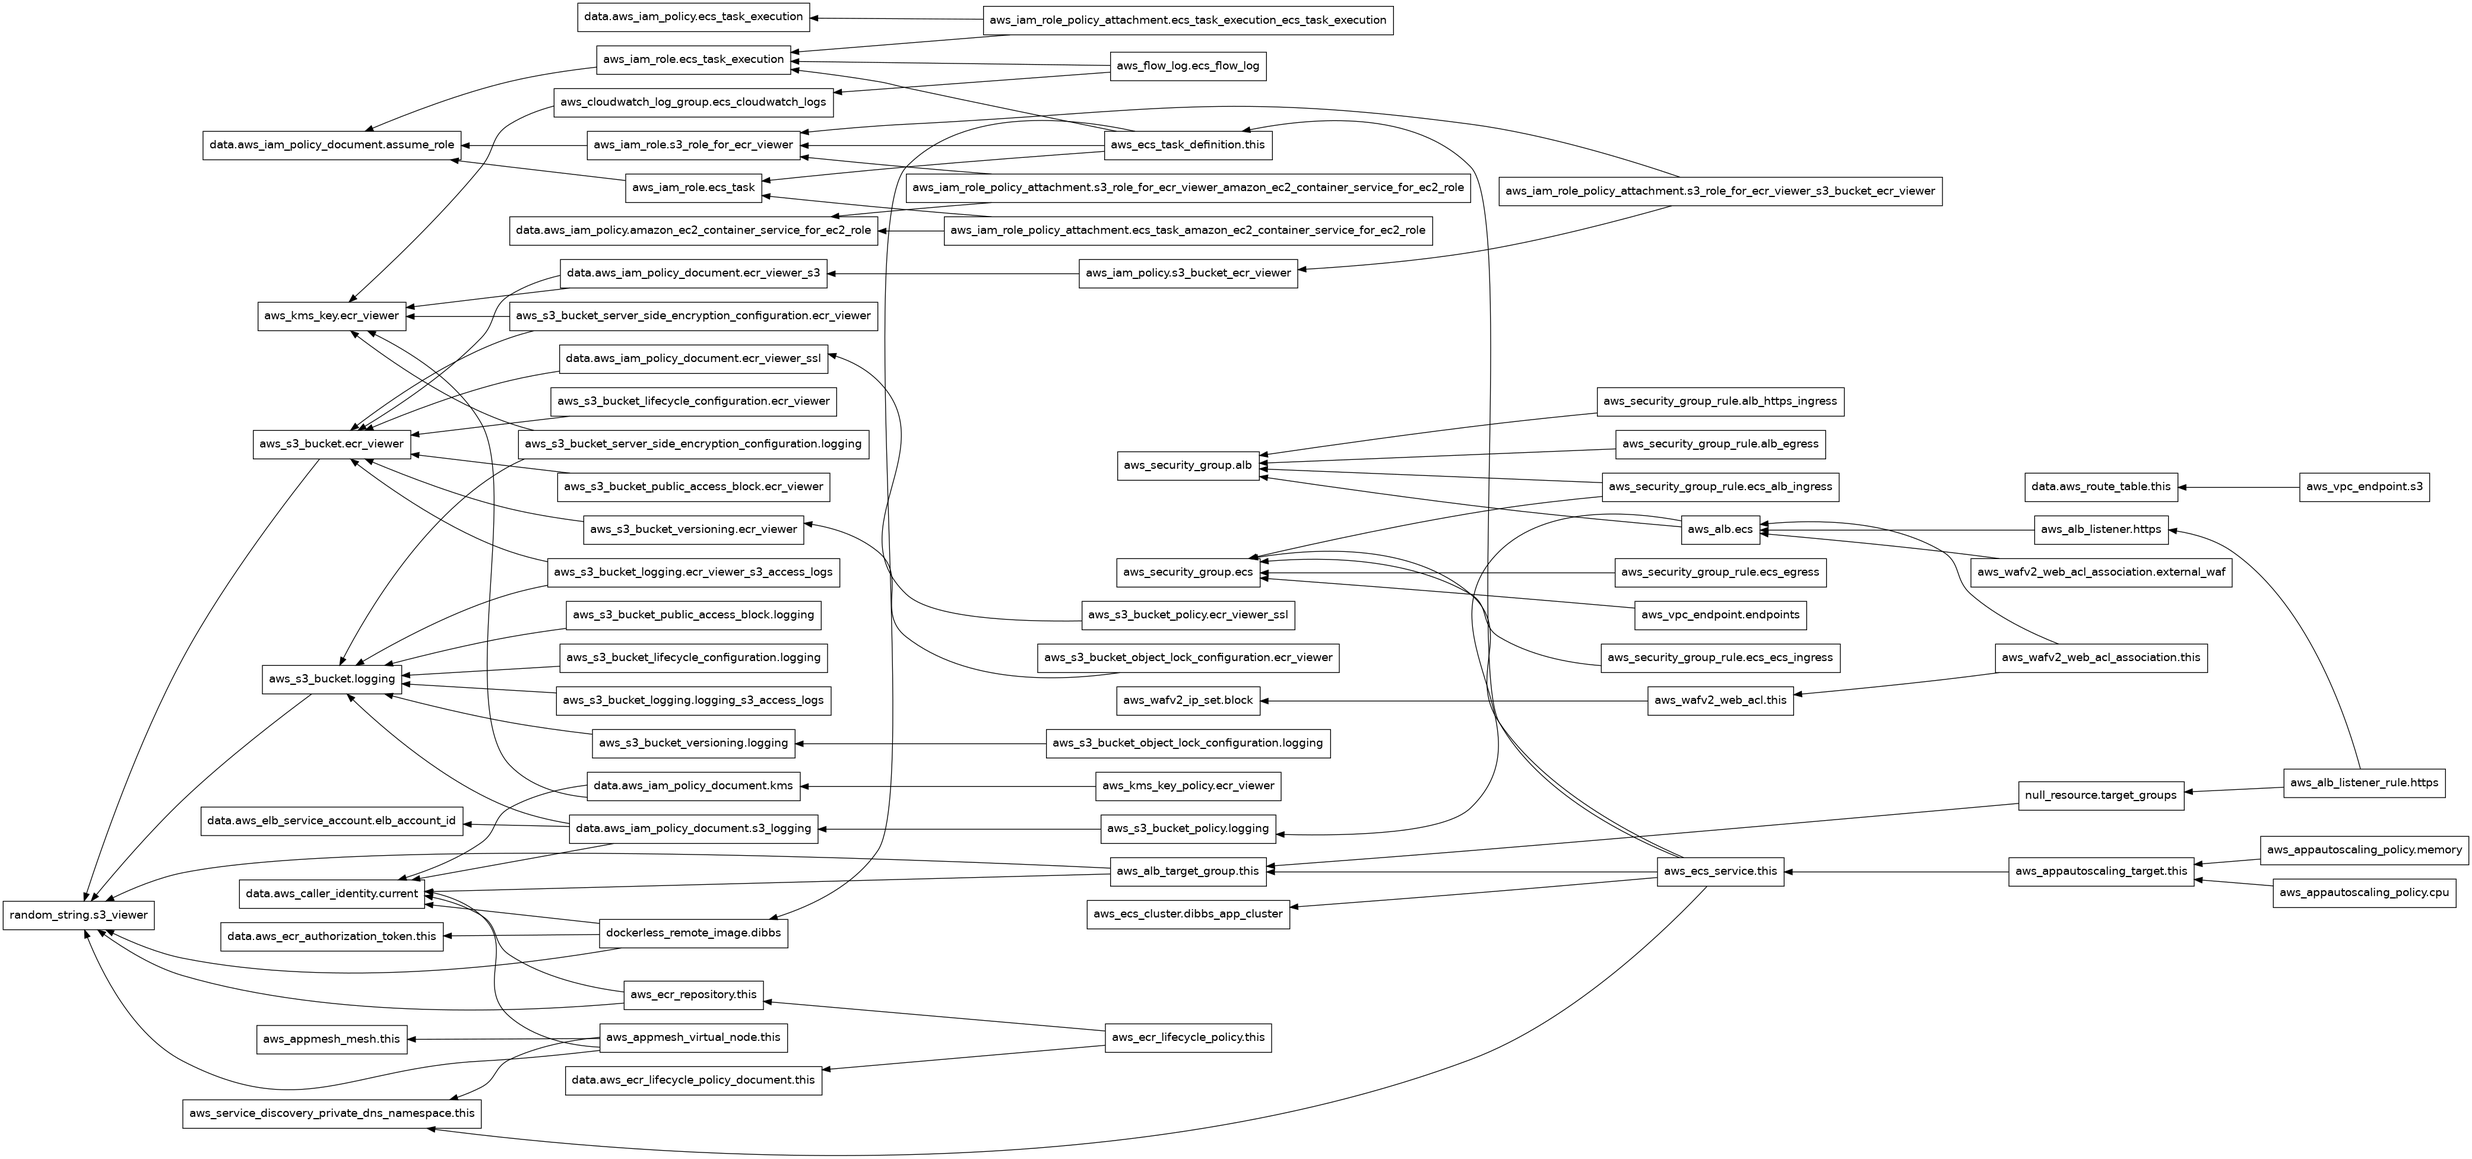
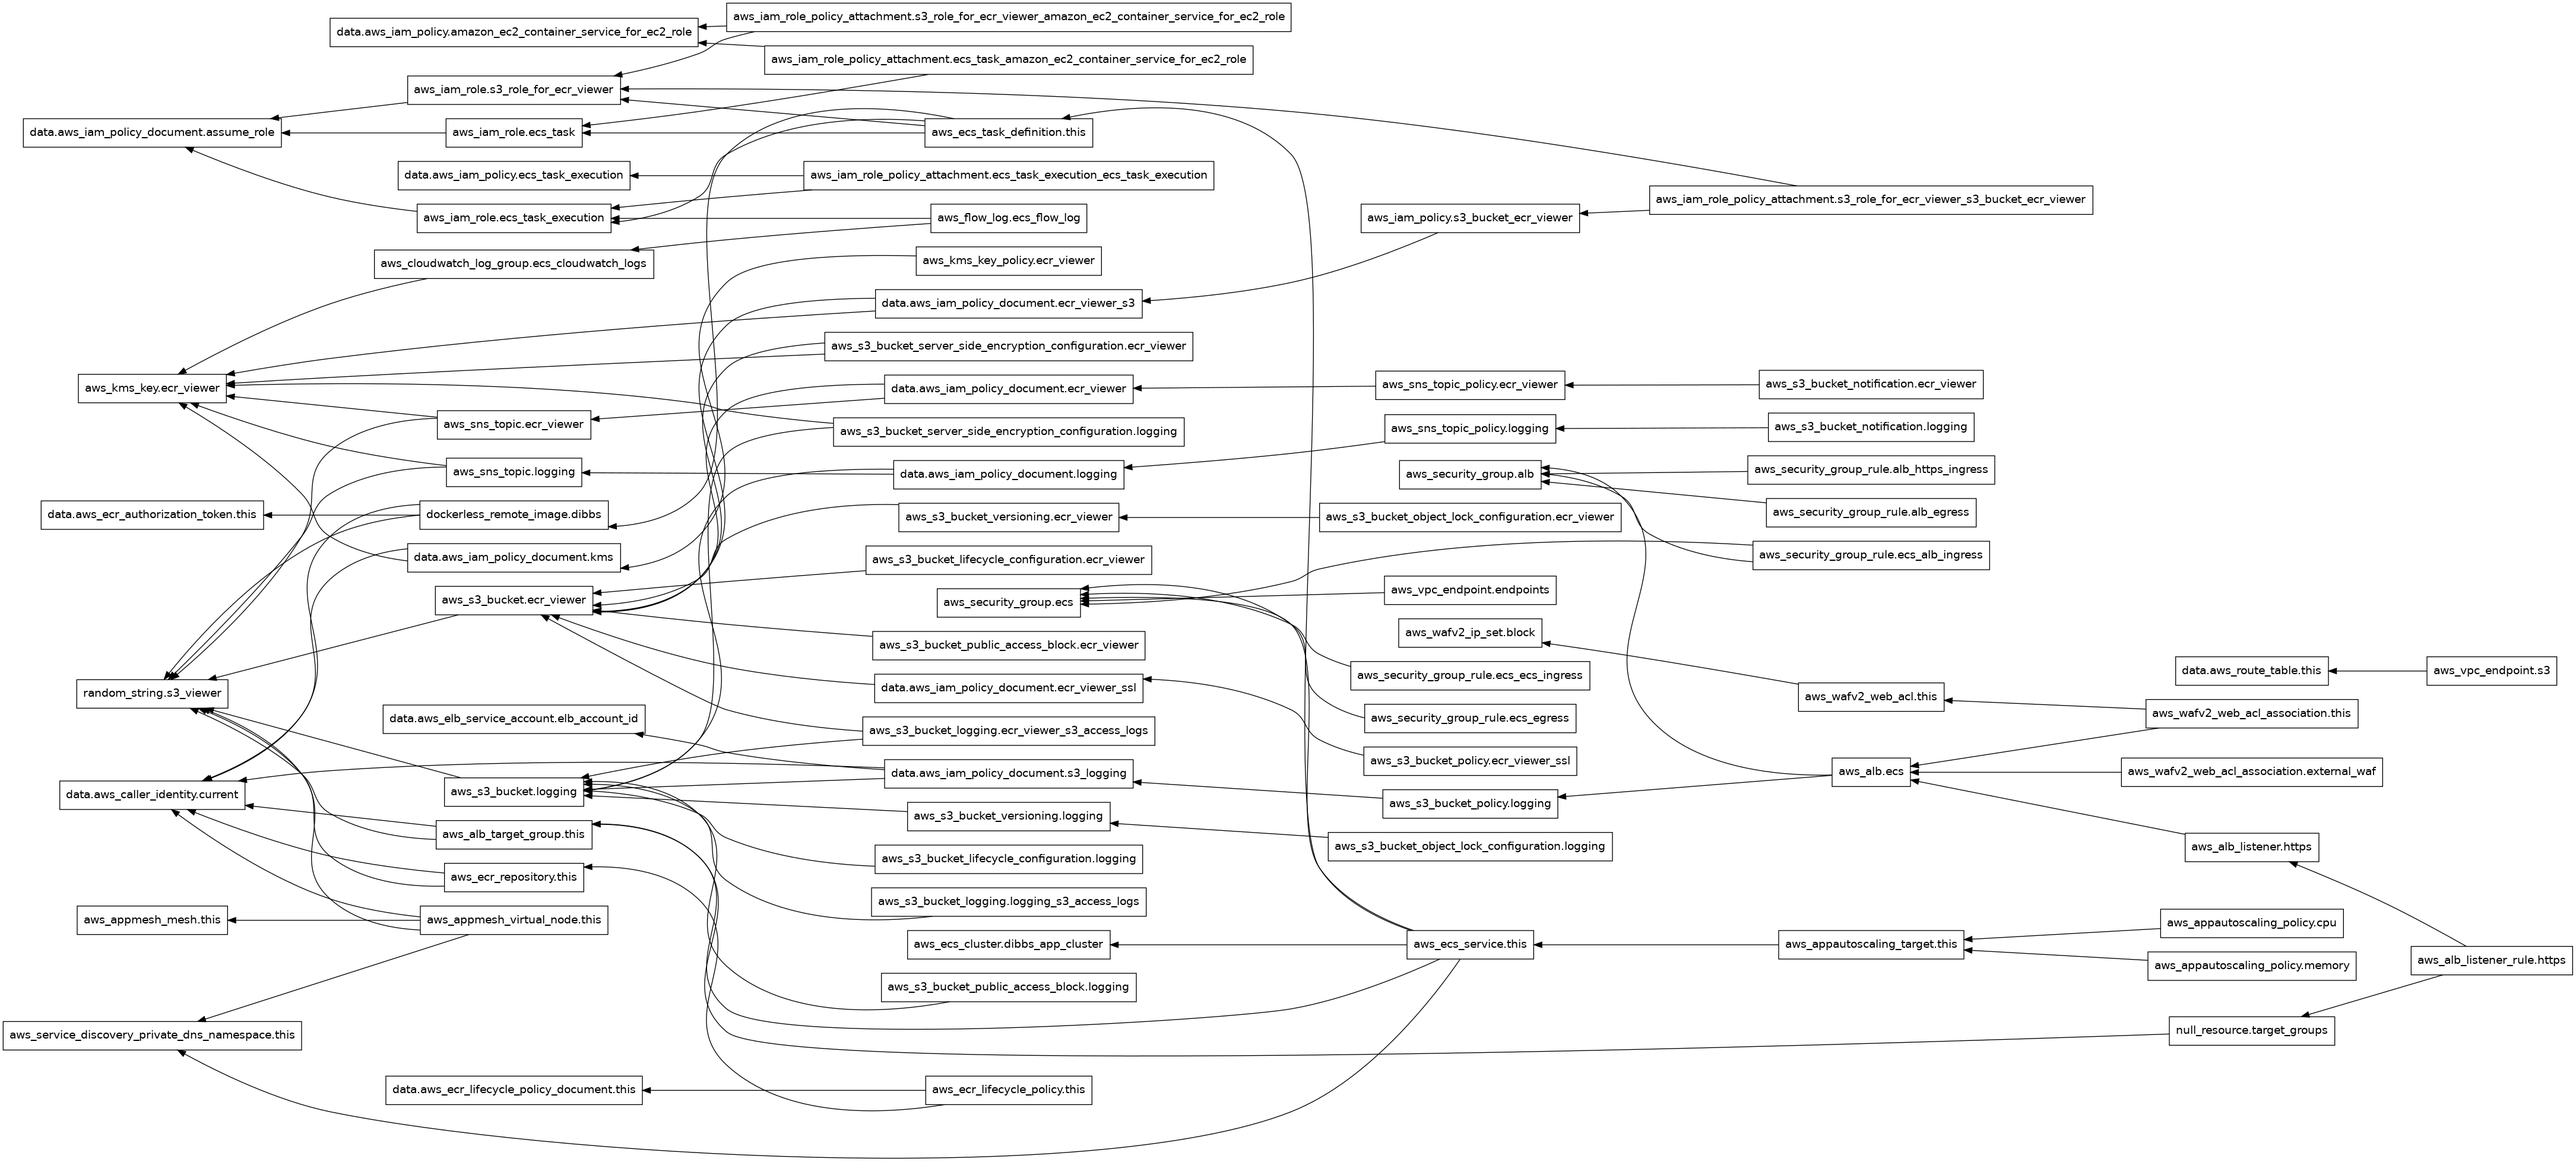
feat: add SNS topics and bucket notifications for ecr viewer and logging buckets

diff --git a/README.md b/README.md
@@ -156,6 +156,8 @@ No modules.
 | [aws_s3_bucket_lifecycle_configuration.logging](https://registry.terraform.io/providers/hashicorp/aws/latest/docs/resources/s3_bucket_lifecycle_configuration) | resource |
 | [aws_s3_bucket_logging.ecr_viewer_s3_access_logs](https://registry.terraform.io/providers/hashicorp/aws/latest/docs/resources/s3_bucket_logging) | resource |
 | [aws_s3_bucket_logging.logging_s3_access_logs](https://registry.terraform.io/providers/hashicorp/aws/latest/docs/resources/s3_bucket_logging) | resource |
+| [aws_s3_bucket_notification.ecr_viewer](https://registry.terraform.io/providers/hashicorp/aws/latest/docs/resources/s3_bucket_notification) | resource |
+| [aws_s3_bucket_notification.logging](https://registry.terraform.io/providers/hashicorp/aws/latest/docs/resources/s3_bucket_notification) | resource |
 | [aws_s3_bucket_object_lock_configuration.ecr_viewer](https://registry.terraform.io/providers/hashicorp/aws/latest/docs/resources/s3_bucket_object_lock_configuration) | resource |
 | [aws_s3_bucket_object_lock_configuration.logging](https://registry.terraform.io/providers/hashicorp/aws/latest/docs/resources/s3_bucket_object_lock_configuration) | resource |
 | [aws_s3_bucket_policy.ecr_viewer_ssl](https://registry.terraform.io/providers/hashicorp/aws/latest/docs/resources/s3_bucket_policy) | resource |
@@ -174,6 +176,10 @@ No modules.
 | [aws_security_group_rule.ecs_ecs_ingress](https://registry.terraform.io/providers/hashicorp/aws/latest/docs/resources/security_group_rule) | resource |
 | [aws_security_group_rule.ecs_egress](https://registry.terraform.io/providers/hashicorp/aws/latest/docs/resources/security_group_rule) | resource |
 | [aws_service_discovery_private_dns_namespace.this](https://registry.terraform.io/providers/hashicorp/aws/latest/docs/resources/service_discovery_private_dns_namespace) | resource |
+| [aws_sns_topic.ecr_viewer](https://registry.terraform.io/providers/hashicorp/aws/latest/docs/resources/sns_topic) | resource |
+| [aws_sns_topic.logging](https://registry.terraform.io/providers/hashicorp/aws/latest/docs/resources/sns_topic) | resource |
+| [aws_sns_topic_policy.ecr_viewer](https://registry.terraform.io/providers/hashicorp/aws/latest/docs/resources/sns_topic_policy) | resource |
+| [aws_sns_topic_policy.logging](https://registry.terraform.io/providers/hashicorp/aws/latest/docs/resources/sns_topic_policy) | resource |
 | [aws_vpc_endpoint.endpoints](https://registry.terraform.io/providers/hashicorp/aws/latest/docs/resources/vpc_endpoint) | resource |
 | [aws_vpc_endpoint.s3](https://registry.terraform.io/providers/hashicorp/aws/latest/docs/resources/vpc_endpoint) | resource |
 | [aws_wafv2_ip_set.block](https://registry.terraform.io/providers/hashicorp/aws/latest/docs/resources/wafv2_ip_set) | resource |
@@ -190,9 +196,11 @@ No modules.
 | [aws_iam_policy.amazon_ec2_container_service_for_ec2_role](https://registry.terraform.io/providers/hashicorp/aws/latest/docs/data-sources/iam_policy) | data source |
 | [aws_iam_policy.ecs_task_execution](https://registry.terraform.io/providers/hashicorp/aws/latest/docs/data-sources/iam_policy) | data source |
 | [aws_iam_policy_document.assume_role](https://registry.terraform.io/providers/hashicorp/aws/latest/docs/data-sources/iam_policy_document) | data source |
+| [aws_iam_policy_document.ecr_viewer](https://registry.terraform.io/providers/hashicorp/aws/latest/docs/data-sources/iam_policy_document) | data source |
 | [aws_iam_policy_document.ecr_viewer_s3](https://registry.terraform.io/providers/hashicorp/aws/latest/docs/data-sources/iam_policy_document) | data source |
 | [aws_iam_policy_document.ecr_viewer_ssl](https://registry.terraform.io/providers/hashicorp/aws/latest/docs/data-sources/iam_policy_document) | data source |
 | [aws_iam_policy_document.kms](https://registry.terraform.io/providers/hashicorp/aws/latest/docs/data-sources/iam_policy_document) | data source |
+| [aws_iam_policy_document.logging](https://registry.terraform.io/providers/hashicorp/aws/latest/docs/data-sources/iam_policy_document) | data source |
 | [aws_iam_policy_document.s3_logging](https://registry.terraform.io/providers/hashicorp/aws/latest/docs/data-sources/iam_policy_document) | data source |
 | [aws_route_table.this](https://registry.terraform.io/providers/hashicorp/aws/latest/docs/data-sources/route_table) | data source |
 
@@ -220,6 +228,7 @@ No modules.
 | <a name="input_ecr_viewer_auth_api_pub_key"></a> [ecr\_viewer\_auth\_api\_pub\_key](#input\_ecr\_viewer\_auth\_api\_pub\_key) | The public key used to validate the incoming authenication for the eCR Viewer API. | `string` | `""` | no |
 | <a name="input_ecr_viewer_auth_pub_key"></a> [ecr\_viewer\_auth\_pub\_key](#input\_ecr\_viewer\_auth\_pub\_key) | The public key used to validate the incoming authenication for the eCR Viewer. | `string` | `""` | no |
 | <a name="input_ecr_viewer_bucket_lifecycle_configuration"></a> [ecr\_viewer\_bucket\_lifecycle\_configuration](#input\_ecr\_viewer\_bucket\_lifecycle\_configuration) | S3 lifecycle rules | <pre>list(object({<br>    status                             = string<br>    prefix                             = string<br>    abort_incomplete_upload_after_days = number<br>    expiration_days                    = number<br>    transitions = list(object({<br>      days          = number<br>      storage_class = string<br>    }))<br>  }))</pre> | <pre>[<br>  {<br>    "abort_incomplete_upload_after_days": 3,<br>    "expiration_days": 365,<br>    "prefix": "/",<br>    "status": "Enabled",<br>    "transitions": [<br>      {<br>        "days": 0,<br>        "storage_class": "INTELLIGENT_TIERING"<br>      }<br>    ]<br>  }<br>]</pre> | no |
+| <a name="input_ecr_viewer_bucket_sns_topic_events"></a> [ecr\_viewer\_bucket\_sns\_topic\_events](#input\_ecr\_viewer\_bucket\_sns\_topic\_events) | List of events that trigger the SNS ecr viewer topic | `list(any)` | <pre>[<br>  "s3:ObjectCreated:CompleteMultipartUpload"<br>]</pre> | no |
 | <a name="input_ecr_viewer_object_retention_days"></a> [ecr\_viewer\_object\_retention\_days](#input\_ecr\_viewer\_object\_retention\_days) | Number of days to retain S3 ecr viewer objects in compliance mode | `number` | `3650` | no |
 | <a name="input_ecs_alb_name"></a> [ecs\_alb\_name](#input\_ecs\_alb\_name) | Name of the Application Load Balancer (ALB) | `string` | `""` | no |
 | <a name="input_ecs_alb_tg_name"></a> [ecs\_alb\_tg\_name](#input\_ecs\_alb\_tg\_name) | Name of the ALB Target Group | `string` | `""` | no |
@@ -230,8 +239,11 @@ No modules.
 | <a name="input_enable_alb_deletion_protection"></a> [enable\_alb\_deletion\_protection](#input\_enable\_alb\_deletion\_protection) | Flag to enable ALB deletion protection | `bool` | `true` | no |
 | <a name="input_enable_alb_logs"></a> [enable\_alb\_logs](#input\_enable\_alb\_logs) | Flag to enable ALB access and connection logging to s3 logging bucket | `bool` | `true` | no |
 | <a name="input_enable_autoscaling"></a> [enable\_autoscaling](#input\_enable\_autoscaling) | Flag to enable autoscaling for the ECS services | `bool` | `true` | no |
+| <a name="input_enable_ecr_viewer_sns_topic"></a> [enable\_ecr\_viewer\_sns\_topic](#input\_enable\_ecr\_viewer\_sns\_topic) | Enable ECR Viewer bucket SNS topic | `bool` | `true` | no |
+| <a name="input_enable_logging_sns_topic"></a> [enable\_logging\_sns\_topic](#input\_enable\_logging\_sns\_topic) | Enable logging bucket SNS topic | `bool` | `true` | no |
 | <a name="input_internal"></a> [internal](#input\_internal) | Flag to determine if the several AWS resources are public (intended for external access, public internet) or private (only intended to be accessed within your AWS VPC or avaiable with other means, a transit gateway for example). | `bool` | `true` | no |
 | <a name="input_logging_bucket_lifecycle_configuration"></a> [logging\_bucket\_lifecycle\_configuration](#input\_logging\_bucket\_lifecycle\_configuration) | S3 lifecycle rules | <pre>list(object({<br>    status                             = string<br>    prefix                             = string<br>    abort_incomplete_upload_after_days = number<br>    expiration_days                    = number<br>    transitions = list(object({<br>      days          = number<br>      storage_class = string<br>    }))<br>  }))</pre> | <pre>[<br>  {<br>    "abort_incomplete_upload_after_days": 3,<br>    "expiration_days": 365,<br>    "prefix": "/",<br>    "status": "Enabled",<br>    "transitions": [<br>      {<br>        "days": 0,<br>        "storage_class": "INTELLIGENT_TIERING"<br>      }<br>    ]<br>  }<br>]</pre> | no |
+| <a name="input_logging_bucket_sns_topic_events"></a> [logging\_bucket\_sns\_topic\_events](#input\_logging\_bucket\_sns\_topic\_events) | List of events that trigger the SNS logging topic | `list(any)` | <pre>[<br>  "s3:ObjectCreated:CompleteMultipartUpload"<br>]</pre> | no |
 | <a name="input_logging_object_retention_days"></a> [logging\_object\_retention\_days](#input\_logging\_object\_retention\_days) | Number of days to retain S3 logging objects in compliance mode | `number` | `90` | no |
 | <a name="input_override_autoscaling"></a> [override\_autoscaling](#input\_override\_autoscaling) | Autoscaling configuration for the DIBBS services | <pre>map(object({<br>    cpu           = number<br>    memory        = number<br>    min_capacity  = number<br>    max_capacity  = number<br>    target_cpu    = number<br>    target_memory = number<br>  }))</pre> | `{}` | no |
 | <a name="input_owner"></a> [owner](#input\_owner) | Owner of the resources | `string` | `"CDC"` | no |
@@ -276,4 +288,6 @@ No modules.
 | <a name="output_s3_bucket_ecr_viewer_policy_arn"></a> [s3\_bucket\_ecr\_viewer\_policy\_arn](#output\_s3\_bucket\_ecr\_viewer\_policy\_arn) | n/a |
 | <a name="output_s3_role_for_ecr_viewer_arn"></a> [s3\_role\_for\_ecr\_viewer\_arn](#output\_s3\_role\_for\_ecr\_viewer\_arn) | n/a |
 | <a name="output_service_data"></a> [service\_data](#output\_service\_data) | n/a |
+| <a name="output_sns_topic_ecr_viewer_arn"></a> [sns\_topic\_ecr\_viewer\_arn](#output\_sns\_topic\_ecr\_viewer\_arn) | n/a |
+| <a name="output_sns_topic_logging_arn"></a> [sns\_topic\_logging\_arn](#output\_sns\_topic\_logging\_arn) | n/a |
 <!-- END_TF_DOCS -->
